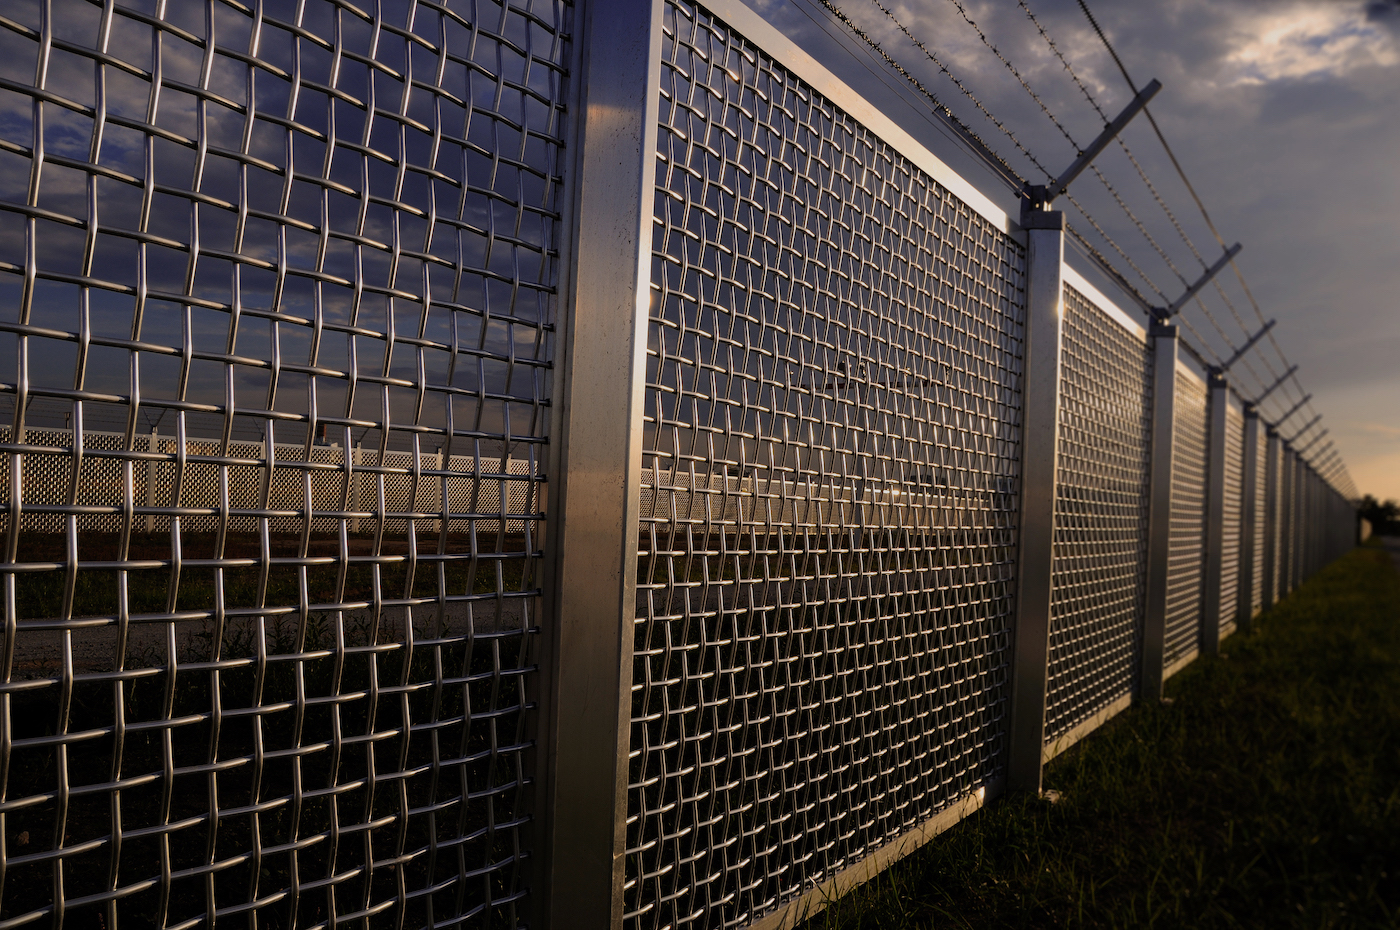
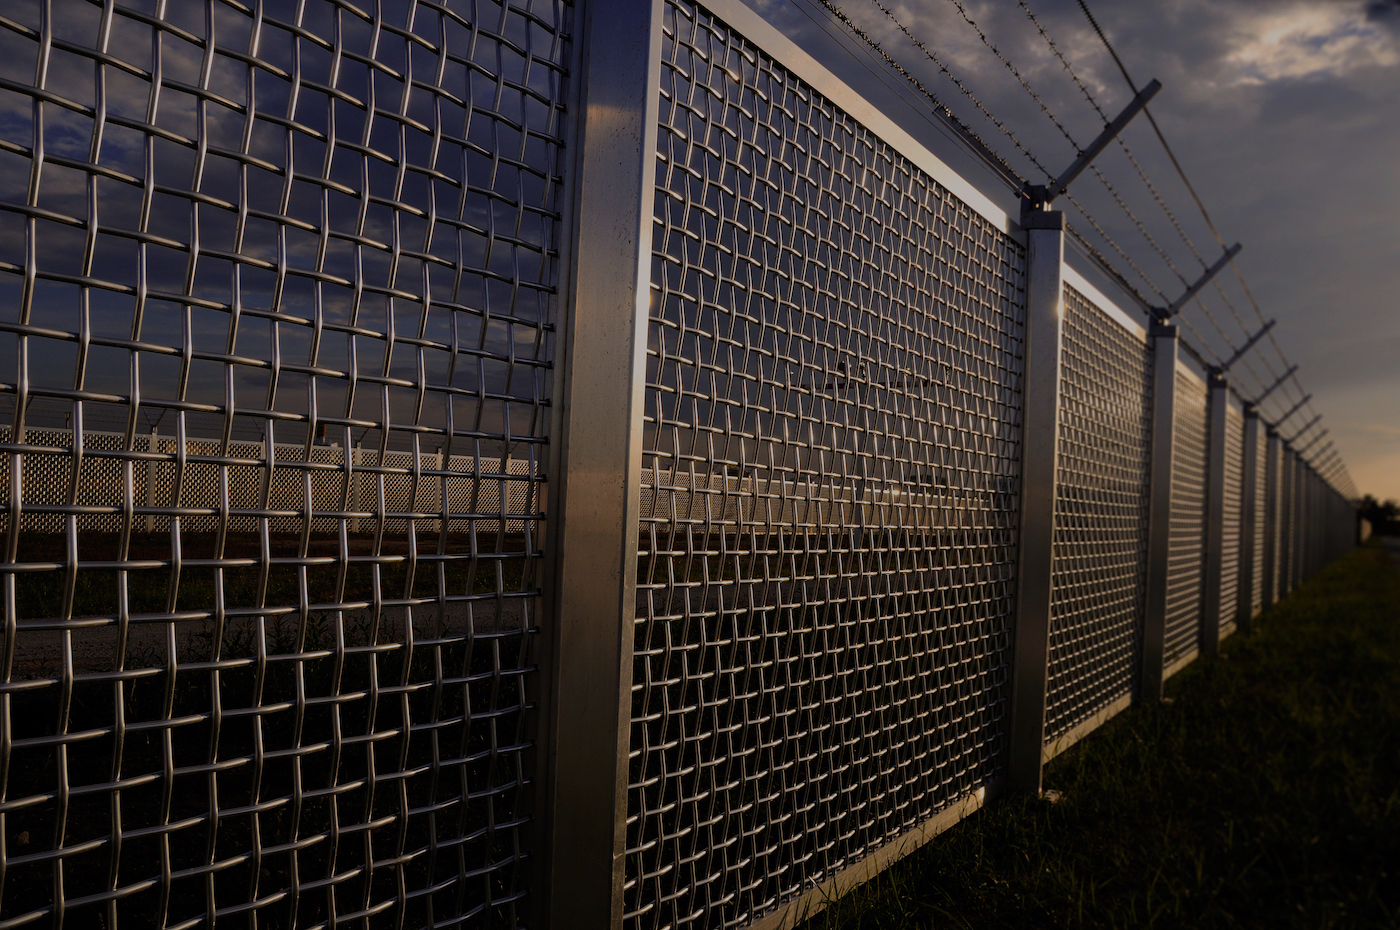
fixed wrong image on services pages

diff --git a/src/pages/sv/services.js b/src/pages/sv/services.js
@@ -1,6 +1,6 @@
 import React, { Fragment } from "react";
 import FullScreenImage from "../../components/FullScreenImage/FullScreenImage";
-import { fence, camera, documents, helmet, techguy } from "../../images";
+import { services_color, camera, documents, helmet, techguy } from "../../images";
 import IntroText from "../../components/IntroText/IntroText";
 import SectionHeader from "../../components/SectionHeader/SectionHeader";
 import CardListItem from "../../components/CardListItem/CardListItem";
@@ -17,7 +17,7 @@ export default () => (
       en="/services/"
       sv="/sv/services/"
     />
-    <FullScreenImage img={fence} noLine>
+    <FullScreenImage img={services_color} noLine>
       <IntroText
         title={
           <span>

diff --git a/src/pages/services.js b/src/pages/services.js
@@ -1,6 +1,6 @@
 import React, { Fragment } from "react";
 import FullScreenImage from "../components/FullScreenImage/FullScreenImage";
-import { fence, documents, camera, helmet, techguy } from "../images";
+import { services_color, documents, camera, helmet, techguy } from "../images";
 import IntroText from "../components/IntroText/IntroText";
 import SectionHeader from "../components/SectionHeader/SectionHeader";
 import CardListItem from "../components/CardListItem/CardListItem";
@@ -17,7 +17,7 @@ export default () => (
       en="/services/"
       sv="/sv/services/"
     />
-    <FullScreenImage img={fence} noLine>
+    <FullScreenImage img={services_color} noLine>
       <IntroText
         title={
           <span>
